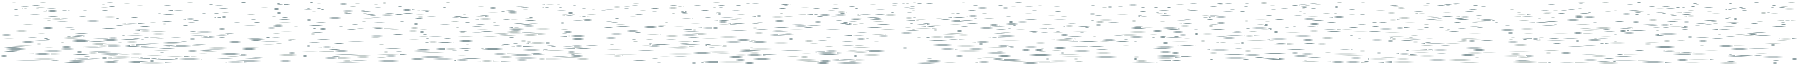
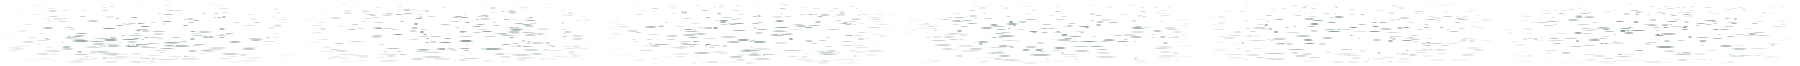
v0.6.38: the drain leaks from the hole, and rain lands
The user's playtest of v0.6.37, point by point.

The drain now leaks from the manhole opening itself - four drips off the rim,
one of them fat and slow with its own sprite - and every landing blows a
bubble, with a bigger bubble for the big drop. Two sizes are drawn, not
scaled; runtime scaling of pixel art stays banned. The sluice sheet reaches
the channel instead of stopping in mid air.

The water shimmer read as a literal rectangle because it filled a rect with
dashes at uniform density; both scenes' now fade to nothing at every edge.

Rain lands. The yard and the toll gate splash across their ground bands,
reusing the world's own rain_splash.png rather than a menu copy.

SCENE_SECONDS 10 -> 15 (user call).

Broke and fixed on the way: a duplicate make_rain_splash(). gen_art already
had one and Python keeps the later definition, so the build died after main()
had already purged art/gen. The right answer was reuse.

Still quiet and recorded as such: the counter and the yard. They need a real
moving object each, not another light.

diff --git a/tools/gen_art.py b/tools/gen_art.py
@@ -6996,7 +6996,7 @@ def make_scene_drain() -> tuple:
     # than a lit shape. Streaks are dashed and each dash rides its own period,
     # because an unbroken column reads as a bar of metal, not as water.
     srng = random.Random("spoils:drain:sluice")
-    SW, SH, SF = 60, 76, 6
+    SW, SH, SF = 60, 98, 6      # 98, not 76: it stopped short of the water
     sheet = Image.new("RGBA", (SW * SF, SH), (0, 0, 0, 0))
     sp = sheet.load()
     streaks = []
@@ -7014,7 +7014,7 @@ def make_scene_drain() -> tuple:
                 if ((y + shift + ph) % per) < ln:
                     # thins and brightens as it falls, and dies into the foam
                     t = y / float(SH)
-                    if t > 0.86:
+                    if t > 0.90:
                         continue
                     col = C("a8b5b2") if (y + shift + ph) % per < 3 else C("577277")
                     sp[ox + sx, y] = (col[0], col[1], col[2],
@@ -7026,10 +7026,12 @@ def make_scene_drain() -> tuple:
         # standing no-dot-noise rule. Churn is drawn the way this project
         # draws every other water surface: short horizontal runs.
         frng = random.Random("spoils:drain:foam:%d" % f)
-        for k in range(14):
-            fy = SH - 14 + k
-            spread = int(5 + k * 2.0)
-            aa = int(150 * (1.0 - k / 14.0))
+        for k in range(18):
+            fy = SH - 18 + k
+            # spreads WIDE at the surface: the sheet has to look like it is
+            # landing IN the channel, not stopping above it
+            spread = int(5 + k * 2.6)
+            aa = int(160 * (1.0 - k / 20.0))
             col = C("a8b5b2") if k < 5 else C("577277")
             fx = SW // 2 - spread
             while fx < SW // 2 + spread:
@@ -7056,6 +7058,15 @@ def make_scene_drain() -> tuple:
     # THE POOL'S SURFACE, in the water's own dashed language. 6 frames.
     crng = random.Random("spoils:drain:chop")
     CW, CH, CF = 300, 66, 6
+
+    def _edge(x: int, y: int) -> float:
+        """Fade to nothing at every edge. Without this the overlay's own
+        RECTANGLE is the hardest line in the water — the user saw exactly
+        that: "it looks like its a rectangle, make it smooth like blended
+        in". Cosine on both axes, so there is no corner either."""
+        u = abs(x - CW / 2.0) / (CW / 2.0)
+        v = abs(y - CH / 2.0) / (CH / 2.0)
+        return (max(0.0, 1.0 - u ** 3.0) ** 1.2) * (max(0.0, 1.0 - v ** 2.2) ** 1.1)
     chop = Image.new("RGBA", (CW * CF, CH), (0, 0, 0, 0))
     cp = chop.load()
     for f in range(CF):
@@ -7071,9 +7082,10 @@ def make_scene_drain() -> tuple:
             for xx in range(x0, x0 + ln):
                 t = min(xx - x0, x0 + ln - 1 - xx) / max(1.0, ln * 0.3)
                 for k in range(th):
-                    if 0 <= y + k < CH:
-                        cp[ox + xx, y + k] = (col[0], col[1], col[2],
-                                              int(a * min(1.0, t)))
+                    yy = y + k
+                    if 0 <= yy < CH:
+                        cp[ox + xx, yy] = (col[0], col[1], col[2],
+                                           int(a * min(1.0, t) * _edge(xx, yy)))
 
     # a slow band of damp air off the pool — the same trick that took the
     # underpass from 38 still frames in 47 to 3: something has to be moving on
@@ -7089,7 +7101,45 @@ def make_scene_drain() -> tuple:
             if d < 1.0:
                 mp[x, y] = (mr, mg, mb, int(30 * (1.0 - d) ** 2.2))
 
-    return c, ray, strip, sheet, lant, chop, mist
+    # THE BUBBLE a drop pushes up when it lands. EIGHT frames of 18x12 in one
+    # sheet: 0-3 is the small dome, 4-7 the big one, because a pixel-art
+    # sprite may never be SCALED at runtime and "a bigger drop with a bigger
+    # bubble" needs two sizes drawn, not one stretched.
+    bub = Canvas(144, 12)
+    SMALL = ((2, 1), (3, 3), (4, 4), (5, 2))
+    BIG = ((3, 2), (5, 5), (7, 7), (8, 3))
+    for f, (rx, ry) in enumerate(SMALL + BIG):
+        ox = f * 18 + 9
+        cy = 9
+        if f % 4 < 3:                                # the dome rising
+            for a in range(180, 361, 5):
+                bub.set(int(ox + math.cos(math.radians(a)) * rx),
+                        int(cy + math.sin(math.radians(a)) * ry),
+                        C("a8b5b2") if f % 4 < 2 else C("c7cfcc"))
+            if f % 4 == 2:
+                bub.set(ox - rx // 2, cy - ry + 1, C("e7d5b3"))   # highlight
+        else:                                        # it bursts
+            for a in range(0, 360, 20):
+                bub.set(int(ox + math.cos(math.radians(a)) * rx),
+                        int(cy + math.sin(math.radians(a)) * ry * 0.5),
+                        C("577277"))
+        bub.hline(ox - rx - 1, ox + rx + 1, cy + 1, C("394a50"))
+
+    # TWO DROP SIZES, same reason. Frame 0 is an ordinary drip, frame 1 the
+    # fat one that comes off the manhole rim and earns the big bubble.
+    drop = Canvas(12, 14)
+    for y in range(3, 14):
+        t = (y - 3) / 11.0
+        drop.set(2, y, C("a8b5b2") if t > 0.5 else C("577277"))
+        drop.set(3, y, C("c7cfcc") if t > 0.6 else C("a8b5b2"))
+    for y in range(0, 14):
+        t = y / 13.0
+        w = 1 if t < 0.45 else 2
+        for k in range(-w, w + 1):
+            drop.set(8 + k, y, C("a8b5b2") if abs(k) == w else C("c7cfcc"))
+    drop.set(8, 13, C("e7d5b3"))
+
+    return c, ray, strip, sheet, lant, chop, mist, bub, drop
 
 
 def make_scene_den() -> tuple[Canvas, Image.Image, Canvas]:
@@ -14884,6 +14934,13 @@ def make_scene_underpass() -> tuple:
     #    rather than as a texture sliding over it.
     crng = random.Random("spoils:underpass:chop")
     CW, CH, CF = 300, 150, 6
+
+    def _edge(x: int, y: int) -> float:
+        """see the drain's copy: an overlay rectangle's own bounds read as
+        the hardest edge in the water unless it fades out at them."""
+        u = abs(x - CW / 2.0) / (CW / 2.0)
+        v = abs(y - CH / 2.0) / (CH / 2.0)
+        return (max(0.0, 1.0 - u ** 3.0) ** 1.2) * (max(0.0, 1.0 - v ** 2.2) ** 1.1)
     chop = Image.new("RGBA", (CW * CF, CH), (0, 0, 0, 0))
     cp = chop.load()
     for f in range(CF):
@@ -14901,10 +14958,11 @@ def make_scene_underpass() -> tuple:
             for xx in range(x0, x0 + ln):
                 # fade the ends so no dash has a hard cap
                 t = min(xx - x0, x0 + ln - 1 - xx) / max(1.0, ln * 0.30)
-                aa = int(a * min(1.0, t))
                 for k in range(th):
-                    if 0 <= y + k < CH:
-                        cp[ox + xx, y + k] = (col[0], col[1], col[2], aa)
+                    yy = y + k
+                    if 0 <= yy < CH:
+                        cp[ox + xx, yy] = (col[0], col[1], col[2],
+                                           int(a * min(1.0, t) * _edge(xx, yy)))
 
     # 3. THE DEAD PENDANT ON THE LEFT. The whole left half of this picture
     #    does not move at all, and hanging in the middle of it is a conical
@@ -17781,7 +17839,8 @@ def main() -> None:
 
     # rotating main-menu backdrops (+ their animated overlay layers)
     (drain_base, drain_ray, drain_ripple, drain_sheet,
-     drain_lant, drain_chop, drain_mist) = make_scene_drain()
+     drain_lant, drain_chop, drain_mist, drain_bub,
+     drain_drop) = make_scene_drain()
     assert_palette(drain_base.img, "menu_drain")
     assert_palette(drain_ripple.img, "menu_drain_ripple")
     drain_base.img.save(OUT / "menu_drain.png")
@@ -17791,6 +17850,10 @@ def main() -> None:
     drain_lant.save(OUT / "menu_drain_lant.png")       # light: soft alpha
     drain_chop.save(OUT / "menu_drain_chop.png")       # 6 frames, soft alpha
     drain_mist.save(OUT / "menu_drain_mist.png")       # light: soft alpha
+    assert_palette(drain_bub.img, "menu_drain_bubble")
+    assert_palette(drain_drop.img, "menu_drain_drop")
+    drain_bub.img.save(OUT / "menu_drain_bubble.png")  # 8: small + big
+    drain_drop.img.save(OUT / "menu_drain_drop.png")   # 2: thin + fat
     den_base, den_glow, den_needles = make_scene_den()
     assert_palette(den_base.img, "menu_den")
     assert_palette(den_needles.img, "menu_den_needles")

diff --git a/CHANGELOG.md b/CHANGELOG.md
@@ -3,6 +3,49 @@
 All notable changes to SPOILS are documented here. Versions follow a simple
 `0.minor.patch` scheme while the game is pre-release.
 
+## [0.6.38] — 2026-08-03 — the drain leaks from the hole, and rain lands
+
+All of this is the user's playtest of v0.6.37, taken point by point.
+
+### Fixed
+- **The chop read as a RECTANGLE** (*"it looks like its a rectangle, make it
+  smooth like blended in"*). It filled a rect with dashes at UNIFORM density,
+  so the overlay's own bounds were the hardest edge in the water. Both the
+  drain's and the underpass's now fade to nothing on both axes.
+- **The sluice poured into mid-air** (*"make that water connected with the
+  water on the ground"*). The sheet was 76 px and stopped ~15 px above the
+  channel; it is 98 now and its foam spreads wide ON the surface.
+- **Rain vanished instead of landing** (*"all of the rain in the backdrops
+  should actually hit the scene, like how it is in game"*). The yard and the
+  warden get splash marks across their ground bands — **reusing the world's
+  own `rain_splash.png`**, which is what the raid has always used.
+
+### Added
+- **The manhole leaks** (*"water coming from the top of the hole, like where
+  it opens up ... a couple drops and maybe a bigger drop with a bigger
+  bubble"*). Four of the five drips now hang off the manhole rim, and one of
+  them is FAT: its own 2-frame drop sprite, a slower fall, and the big half
+  of an 8-frame bubble sheet. Two sizes are DRAWN, not scaled — runtime
+  scaling of pixel art stays banned.
+- **Every landing blows a bubble** — dome rises, tops out with a highlight,
+  bursts.
+- **`SCENE_SECONDS` 10 → 15** (user call).
+
+### Broke and fixed in the same pass
+- **A duplicate `make_rain_splash()`.** gen_art already had one — the world
+  rain's 4-frame ground splash — and Python silently kept the LATER
+  definition, so `assert_palette` got an `Image` and the build died *after*
+  `main()` had already purged `art/gen`, leaving the project unloadable. The
+  right answer was reuse, not a second asset. **Check for the name before
+  adding a generator to a 17,000-line file.**
+
+### Still quiet, and said plainly
+`counter` and `yard` measure ~0.25-0.30% mean change with ~50 still frames in
+59. Their additions are rain and sparks, which the metric under-reports — but
+the user's read is that they are still the two quietest, and that is the read
+that counts. Next for them: a real moving OBJECT each (the counter's hanging
+tag row; something crossing the yard), not another light.
+
 ## [0.6.37] — 2026-08-03 — the living layers, made noticeable
 
 User: *"these living layers are very minimal, can we add some more to it, to

diff --git a/HANDOFF.md b/HANDOFF.md
@@ -229,6 +229,35 @@ way silently deleted `_tick_yard`, `_tick_warden`, `_tick_underpass` and
 checked the START of the block. It was caught by a parse error and restored
 from HEAD. Assert on what you are DELETING, not on what you are looking for.
 
+**Then v0.6.38 — the user's playtest of v0.6.37, taken point by point.** The
+drain leaks from the MANHOLE now (four drips off the rim, one fat and slow,
+every landing blowing a bubble — two bubble sizes DRAWN, because runtime
+scaling of pixel art stays banned); the sluice sheet reaches the channel
+instead of stopping in mid-air; the water chop fades out at its edges because
+it read as a literal RECTANGLE; rain LANDS in the yard and at the gate, reusing
+the world's own `rain_splash.png`; and SCENE_SECONDS went 10 → 15.
+
+**The bad half hour: a duplicate `make_rain_splash()`.** gen_art already had
+one — the world rain's ground splash — and Python silently keeps the LATER
+definition, so my copy was dead and `assert_palette` got an `Image`. The build
+died AFTER `main()` had purged `art/gen`, which leaves the project unloadable
+until you fix it and re-run. **In a 17,000-line generator, grep for the name
+before writing a new one**, and remember gen_art deletes before it writes.
+
+**STILL QUIET AND THE USER SAYS SO: `counter` and `yard`.** Both measure
+~0.25-0.30% mean change, ~50 still frames in 59. Their additions were rain and
+sparks, which the metric under-reports — but the user's eye is the authority
+and their read is that these two are the quietest. **Next for them: a real
+moving OBJECT each, not another light** — the counter's hanging tag row is the
+obvious one, and the yard wants something crossing it.
+
+**AN OPEN COMPOSITION NOTE, NOT ACTED ON:** *"the drain and the underpass are
+really similar, like the shot angle, i dont know but just seems a bit odd"*.
+They are right — both are side-on tunnels with water along the bottom and a
+light source high on the right. That is a BASE-ART problem, not a living-layer
+one, and fixing it means repainting one of them to a different camera. It
+needs their call before anyone starts.
+
 **Picked up at:** **nothing is in progress.** A1 in TASKS.md is now DONE — all
 six backdrops exist and all six live. The next items in that list are the
 in-game map screen and the map-select tile; **M2 (guns) still waits on the

diff --git a/CLAUDE.md b/CLAUDE.md
@@ -35,7 +35,7 @@ This file carries everything a fresh session needs that isn't in those two.
 
 <!-- CHECKED: --checkdocs parses the version out of the next line. Keep the
 	 form "vX.Y.Z shipped" or the check will fail loudly. -->
-**v0.6.37 shipped, 2026-08-03.** Milestone 1 (a walkable world) is DONE.
+**v0.6.38 shipped, 2026-08-03.** Milestone 1 (a walkable world) is DONE.
 Milestone 2 — guns, tunnels, the story opening — is designed and waiting
 on the user's explicit "go".
 
@@ -503,8 +503,8 @@ update CHANGELOG.md. Tag releases (`git tag vX.Y.Z`, push with `--tags`).
   built, and in ordinary play never fires; this line said "death fade →
   respawn", which DESIGN.md had already corrected in its own copy.
   `scripts/main_menu.gd` — 6
-  rotating backdrops, one every 10 s (`SCENE_SECONDS`; it was 30 for one
-  release, user call): 0=den (the traders +
+  rotating backdrops, one every 15 s (`SCENE_SECONDS`; 30 -> 10 -> 15, all
+  user calls): 0=den (the traders +
   job board), 1=drain, 2=yard, 3=warden, 4=underpass, 5=counter. **ALL SIX
   ARE LIVING** as of v0.6.35 — per-scene ticks drive candle/needles/LEDs/smoke,
   ray/motes/drips, the yard's signal tick / two indicator blinks /

diff --git a/docs/sessions/2026-08-03.md b/docs/sessions/2026-08-03.md
@@ -15,3 +15,7 @@ the day the filter was added. What they reported lives in the commits and
 
 these living layers are very minimal, can we add some more to it, to every backdrop, i want it to be noticable
 
+## 01:08:52 · session 48140caf
+
+maras backdrop is quiet, and the drain backdrop should have the water coming from the top of the hole, like where it opens up, like water is leaking from there and hitting the water on the ground, which should show a bubble, and make it not just a drop every second, a couple drops and maybe a bigger drop with a bigger bubble, also the railroad track backdrop is quiet as well. also the drain and the underpass are really similar, like the shot angle, i dont know but just seems a bit odd. also the drain water or shimmer whatever it is at the bottom, it looks like its a rectangle, make it smooth like blended in, and the water coming out from the thing on the right, make that water connected with the water on the ground
+

diff --git a/TASKS.md b/TASKS.md
@@ -5,7 +5,7 @@ one. **Read `CLAUDE.md` first** (project rules, systems map, verification
 workflow), then this file for what to actually build. `CHANGELOG.md`
 records what already shipped.
 
-**Current version: v0.6.37.** The release history was renumbered evenly on
+**Current version: v0.6.38.** The release history was renumbered evenly on
 2026-08-02 — read the versioning note in CLAUDE.md before quoting any old
 version number, because they were all remapped.
 
